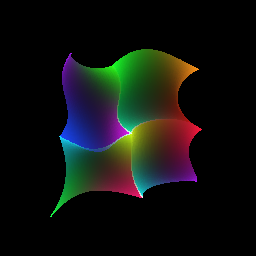
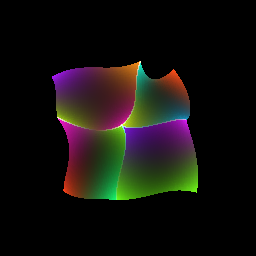
deviation fix

Changed region(s): [[0.1875, 0.1875, 0.7812, 0.8125], [0.1875, 0.8125, 0.2188, 0.8438]]

diff --git a/bezier_patch.py b/bezier_patch.py
@@ -16,12 +16,19 @@ def bernstein_basis_3(t):
     ], dim=-1)  # shape: (..., 4)
 
 # --- 4x4 control point grid with noise ---
-def make_control_grid(grid_height=4, grid_width=4, deviation=0.1):
+def make_control_grid(grid_height=4, grid_width=4, deviation=0.05):
     base_height = torch.linspace(0.25, 0.75, grid_height, device=device)  # (4,)
     base_width = torch.linspace(0.25, 0.75, grid_width, device=device)  # (4,)
     x, y = torch.meshgrid(base_width, base_height, indexing="ij")
     control_points = torch.stack([x, y], dim=-1)  # (4, 4, 2)
-    control_points += torch.randn_like(control_points) * deviation
+    
+    # Shape: (grid_height, grid_width, 2), last dim is (y, x)
+    noise = torch.randn_like(control_points)
+    noise[..., 0] *= deviation / ((grid_height + 1) / 3)
+    noise[..., 1] *= deviation / ((grid_width + 1) / 3)
+    control_points += noise
+
+
     return control_points  # (4, 4, 2)
 
 def hsv_to_rgb(h, s, v):
@@ -100,8 +107,8 @@ def rasterize_patch(patch_coords, patch_colors, H=128, W=128):
     img[:, y, x] = colors.T  # Set RGB per pixel
     return img
 
-def render_bezier_patch_image(H=256, W=256, height_patches=2, width_patches=2):
-    control_pts = make_control_grid(grid_height=height_patches*3+1, grid_width=width_patches*3+1, deviation=0.05)
+def render_bezier_patch_image(H=256, W=256, height_patches=2, width_patches=2, deviation=0.05):
+    control_pts = make_control_grid(grid_height=height_patches*3+1, grid_width=width_patches*3+1, deviation=deviation)
 
     image = torch.zeros(3, H, W, device=device)
 
@@ -126,6 +133,7 @@ if __name__ == "__main__":
     parser = argparse.ArgumentParser(description="Render Bézier patch image")
     parser.add_argument("--height", type=int, default=2, help="Number of Bézier patches vertically")
     parser.add_argument("--width", type=int, default=2, help="Number of Bézier patches horizontally")
+    parser.add_argument("--deviation", type=float, default=0.05, help="Control point deviation")
 
     args = parser.parse_args()
 
@@ -133,7 +141,8 @@ if __name__ == "__main__":
         H=args.height*128,
         W=args.width*128,
         height_patches=args.height,
-        width_patches=args.height
+        width_patches=args.width,
+        deviation=args.deviation
     )
 
     torchvision.utils.save_image(image, f"bezier_patch_{args.height}x{args.width}.png")

diff --git a/README.md b/README.md
@@ -5,6 +5,13 @@ Usage:
 py bezier_patch.py --height=4 --width=4
 ```
 
+
+
+### 1x1 patch:
+<p align="center">
+  <img src="bezier_patch_1x1.png" alt="bezier_patch_1x1" />
+</p>
+
 ### 2x2 patch:
 <p align="center">
   <img src="bezier_patch_2x2.png" alt="bezier_patch_2x2" />
@@ -13,4 +20,9 @@ py bezier_patch.py --height=4 --width=4
 ### 4x4 patch:
 <p align="center">
   <img src="bezier_patch_4x4.png" alt="bezier_patch_4x4" />
+</p>
+
+### 8x8 patch:
+<p align="center">
+  <img src="bezier_patch_8x8.png" alt="bezier_patch_8x8" />
 </p>
